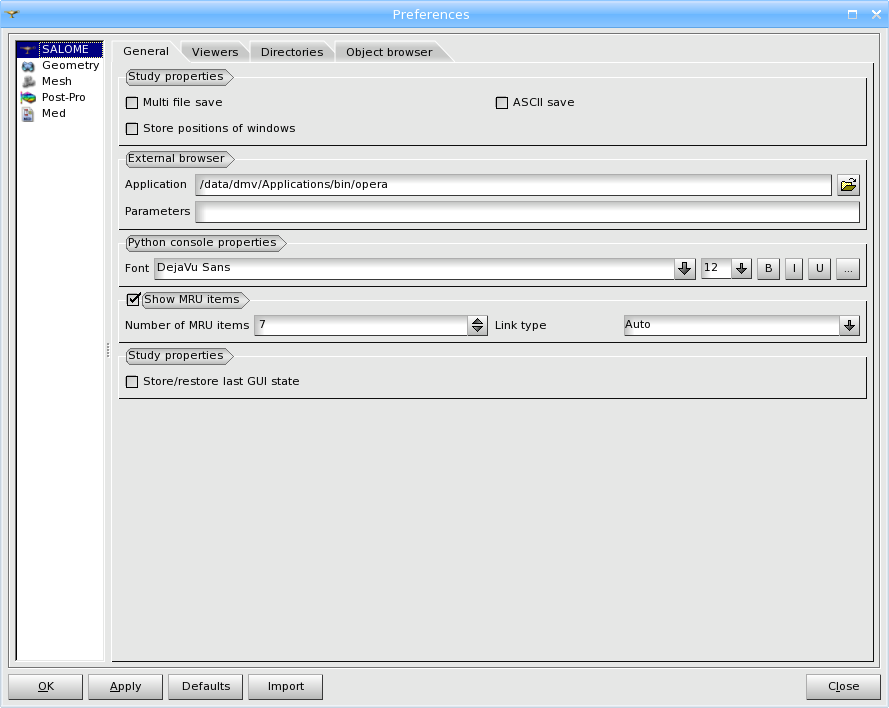
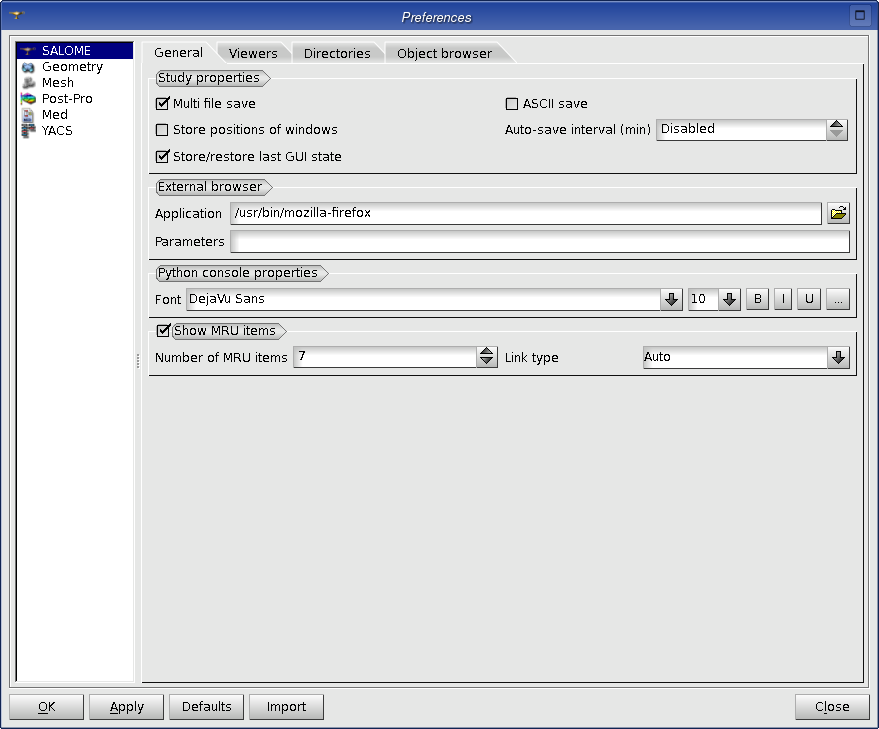
Issue 20430: EDF 1012 ALL : Automatic save

Changed region(s): [[0.0, 0.0, 1.0, 1.0]]

diff --git a/src/STD/resources/STD_msg_en.ts b/src/STD/resources/STD_msg_en.ts
@@ -388,12 +388,20 @@ Do you want to overwrite it?</translation>
         <translation>Open document</translation>
     </message>
     <message>
+        <source>TOT_DESK_FILE_REOPEN</source>
+        <translation>Reopen document</translation>
+    </message>
+    <message>
         <source>PRP_DESK_FILE_EXIT</source>
         <translation>Exits the application</translation>
     </message>
     <message>
         <source>PRP_DESK_FILE_OPEN</source>
         <translation>Opens an existing document</translation>
+    </message>
+    <message>
+        <source>PRP_DESK_FILE_REOPEN</source>
+        <translation>Reload the current document from the file</translation>
     </message>
     <message>
         <source>PRP_DESK_FILE_SAVE</source>
@@ -422,6 +430,10 @@ Do you want to overwrite it?</translation>
     <message>
         <source>MEN_DESK_FILE_OPEN</source>
         <translation>&amp;Open...</translation>
+    </message>
+    <message>
+        <source>MEN_DESK_FILE_REOPEN</source>
+        <translation>Reopen</translation>
     </message>
     <message>
         <source>MEN_DESK_FILE_LOAD</source>

diff --git a/src/LightApp/resources/LightApp_msg_en.ts b/src/LightApp/resources/LightApp_msg_en.ts
@@ -119,6 +119,14 @@ CEA/DEN, CEDRAT, EDF R&amp;D, LEG, PRINCIPIA R&amp;D, BUREAU VERITAS</translatio
         <translation>Store positions of windows</translation>
     </message>
     <message>
+        <source>PREF_AUTO_SAVE</source>
+        <translation>Auto-save interval (min)</translation>
+    </message>
+    <message>
+        <source>PREF_AUTO_SAVE_DISABLED</source>
+        <translation>Disabled</translation>
+    </message>
+    <message>
         <source>PREF_PROJECTION_MODE</source>
         <translation>Projection mode:</translation>
     </message>

diff --git a/src/LightApp/LightApp_Application.h b/src/LightApp/LightApp_Application.h
@@ -52,6 +52,7 @@ class QString;
 class QWidget;
 class QStringList;
 class QDockWidget;
+class QTimer;
 
 #ifdef WIN32
 #pragma warning( disable:4251 )
@@ -229,6 +230,7 @@ protected:
 
   virtual void                        studyOpened( SUIT_Study* );
   virtual void                        studyCreated( SUIT_Study* );
+  virtual void                        studySaved( SUIT_Study* );
 
   void                                updatePreference( const QString&, const QString&, const QString& );
 
@@ -268,6 +270,7 @@ protected:
   WinGeom                             myWinGeom;
 
   SUIT_Accel*                         myAccel;
+  QTimer*                             myAutoSaveTimer;
 
   static LightApp_Preferences*        _prefs_;
 

diff --git a/src/STD/STD_Application.h b/src/STD/STD_Application.h
@@ -52,7 +52,7 @@ class STD_EXPORT STD_Application : public SUIT_Application
   Q_OBJECT
 
 public:
-  enum { MenuFileId, FileNewId, FileOpenId, FileCloseId, FileSaveId, FileSaveAsId, FileExitId,
+  enum { MenuFileId, FileNewId, FileOpenId, FileReopenId, FileCloseId, FileSaveId, FileSaveAsId, FileExitId,
          MenuViewId, ViewWindowsId, ViewToolBarsId, ViewStatusBarId, NewWindowId,
          MenuEditId, EditCutId, EditCopyId, EditPasteId,
          MenuHelpId, HelpAboutId,
@@ -120,6 +120,8 @@ public slots:
 
   virtual void          onOpenDoc();
   virtual bool          onOpenDoc( const QString& );
+
+  virtual bool          onReopenDoc();
 
   virtual void          onExit();
 
